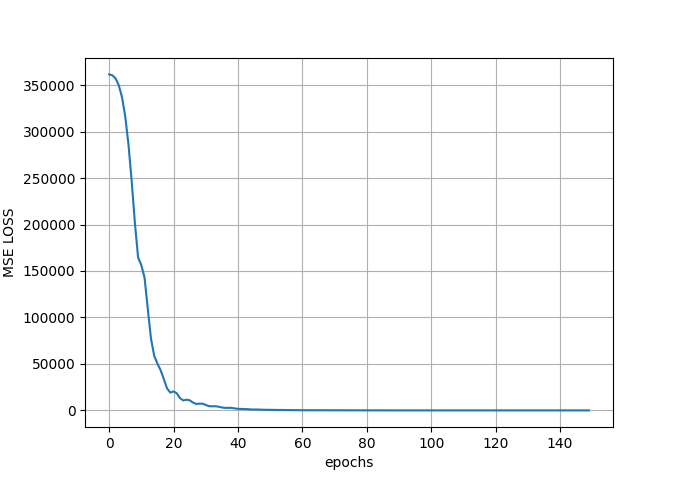
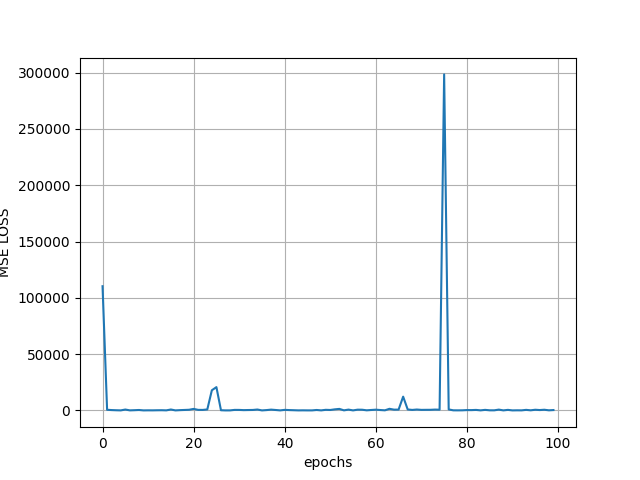
Added Autoencoder Performace

diff --git a/data_autoencoder.py b/data_autoencoder.py
@@ -72,6 +72,12 @@ for epoch in range(num_epochs):
 	print('Epoch [{}/{}], Loss: {:.4f}'.format(epoch+1, num_epochs, loss.item()))
 	loss_data.append(loss.item())
 
+plt.plot(range(num_epochs), loss_data)
+plt.ylabel('MSE LOSS')
+plt.xlabel('epochs')
+plt.grid(True)
+plt.show()
+
 for test in test_dataset:
 	out = model(test)
 	loss = loss_criterion(out, test)
@@ -86,8 +92,4 @@ for test in test_dataset:
 # print('\n')
 # encoded_tensor = model.encoder(train_tensor)
 # print(encoded_tensor, len(encoded_tensor))
-# plt.plot(range(num_epochs), loss_data)
-# plt.ylabel('MSE LOSS')
-# plt.xlabel('epochs')
-# plt.grid(True)
-# plt.show()
+
